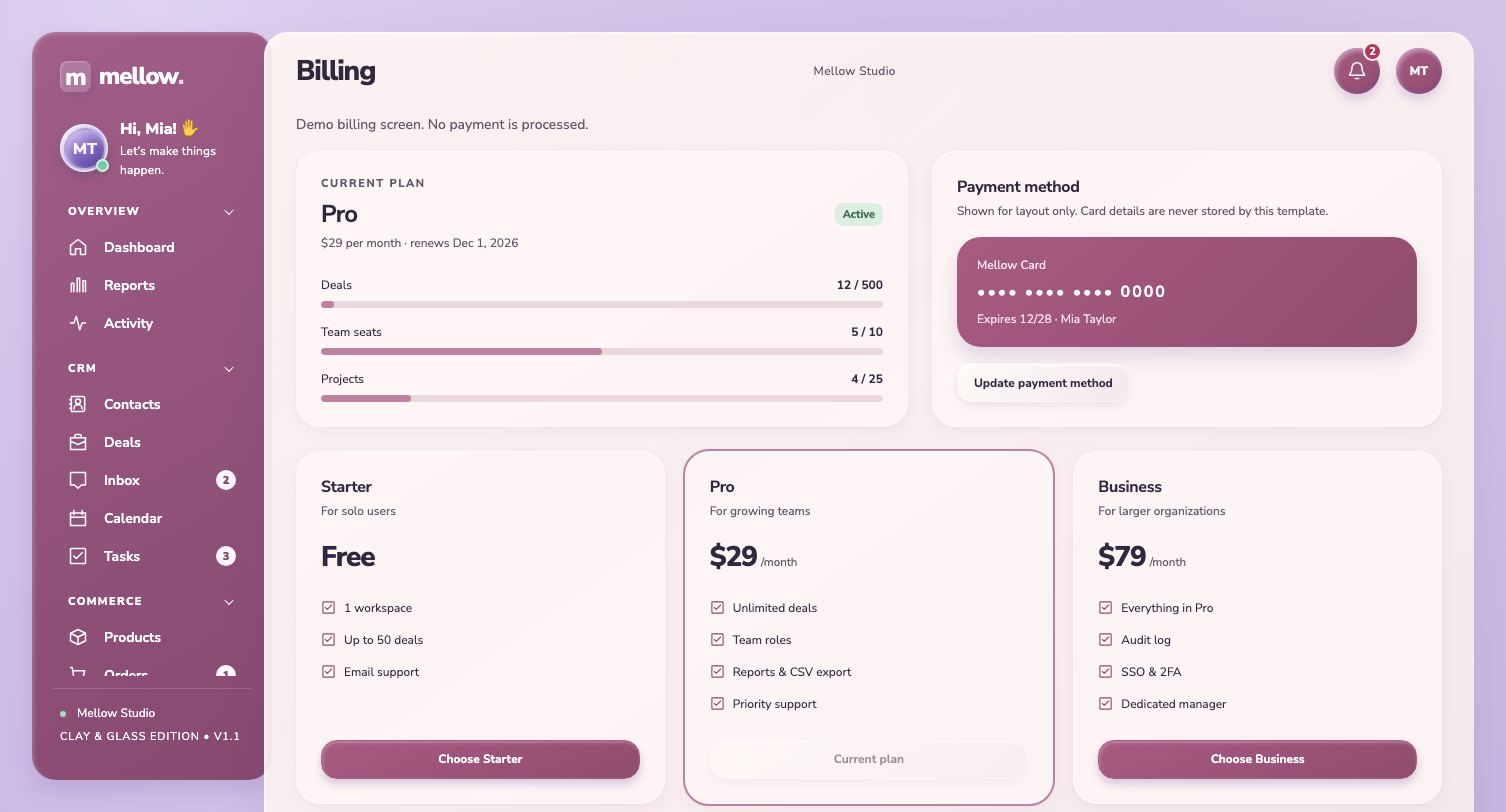
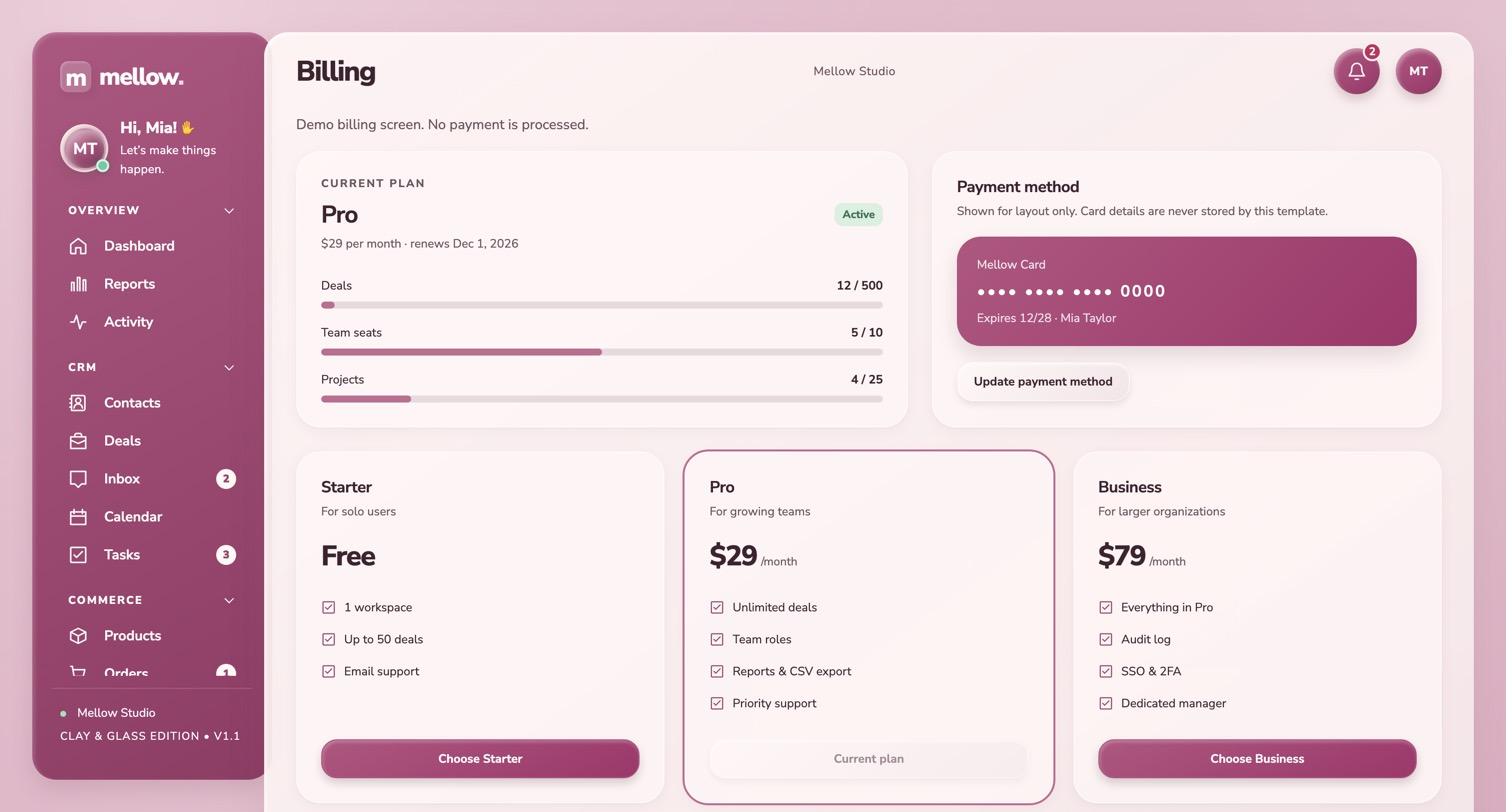
Perbarui README dan screenshot galeri
- Jelaskan palet aksen lengkap (terang dan gelap) dan animasi masuk
  "clay pop" di bagian Fitur dan Kenapa Mellow.
- Tambah baris kustomisasi untuk mengatur animasi masuk, dan perjelas
  perilaku prefers-reduced-motion.
- Ukuran bundle JS diperbarui menjadi ±81 KB gzip.
- Ambil ulang screenshot navy gelap, rose, dan sage dengan palet baru.
  Screenshot lama masih menampilkan sidebar dan latar ungu.

diff --git a/README.md b/README.md
@@ -14,10 +14,10 @@ Cukup ekstrak lalu buka `index.html`. Tidak perlu `npm install`, server, atau ko
 
 ## Kenapa Mellow?
 
-- **Tampil beda sejak layar pertama.** Bayangan neumorphic, sentuhan kaca, dan 4 aksen warna memberi identitas visual yang jarang ada di template admin.
+- **Tampil beda sejak layar pertama.** Bayangan neumorphic, sentuhan kaca, animasi masuk yang membal lembut, dan 4 palet aksen lengkap memberi identitas visual yang jarang ada di template admin.
 - **Langsung jalan, bahkan offline.** React, CSS, ikon, dan font Nunito Sans sudah dibundel lokal. Tanpa CDN, font eksternal, atau panggilan API.
 - **Ada versi satu file.** `Mellow-Admin-Standalone.html` (±370 KB) memuat seluruh aplikasi dalam satu berkas HTML. Praktis untuk demo ke klien atau lampiran presentasi.
-- **Ringan.** Bundle JavaScript, termasuk React, ±83 KB setelah gzip. CSS ±43 KB gzip, sudah termasuk font yang tertanam.
+- **Ringan.** Bundle JavaScript, termasuk React, ±81 KB setelah gzip. CSS ±43 KB gzip, sudah termasuk font yang tertanam.
 - **Kode yang mudah dibaca.** Hanya lima berkas sumber, React murni tanpa router, state library, atau framework CSS. Satu orang bisa memahami seluruh alurnya dalam satu sore.
 - **Siap disambungkan ke backend.** Semua perubahan data lewat beberapa fungsi pusat, jadi mengganti `localStorage` dengan API Laravel, Node, atau backend lain cukup di satu tempat.
 
@@ -65,11 +65,12 @@ Ditambah **7 layar mandiri** tanpa sidebar: Sign in, Sign up, Forgot password, L
 
 ### Tampilan dan tema
 
-- **4 aksen warna:** violet, rose, sage, dan navy.
+- **4 palet aksen:** violet, rose, sage, dan navy. Aksen mengubah seluruh nuansa, bukan hanya tombol dan sidebar: latar, permukaan kartu, teks, grafik, kartu statistik, avatar, bayangan, backdrop dialog, dan konfeti. Tiap aksen punya versi terang dan gelap.
+- **Animasi masuk *clay pop*.** Setiap kali halaman dibuka, konten muncul berurutan dari atas ke bawah. Kartu dan panel naik dengan pantulan kecil, ikon statistik memantul, baris tabel dan kartu deal bergeser masuk, batang grafik tumbuh, dan progress bar terisi. Semuanya selesai dalam kurang dari 2 detik. Sidebar dan bilah atas tetap diam. Record yang ditambahkan, dipindah, atau dikembalikan dengan *Undo* langsung muncul tanpa menunggu giliran.
 - **Mode gelap** dan **mode kartu ringkas**, masing-masing bisa dinyalakan dari Settings.
 - **Sidebar menempel** saat halaman digulir, dengan grup menu yang bisa dilipat.
 - **Responsif penuh.** Sidebar berubah menjadi ikon di tablet, dan di ponsel menjadi menu geser dengan dock navigasi di bawah. Kanban bisa digulir menyamping di layar kecil.
-- **Token desain berbasis CSS variable** untuk tipografi, spasi, radius, warna semantik, dan bayangan, sehingga mengganti warna merek cukup di satu tempat.
+- **Token desain berbasis CSS variable** untuk tipografi, spasi, radius, warna semantik, bayangan, dan kurva animasi, sehingga mengganti warna merek cukup di satu tempat.
 
 ### Aksesibilitas dan detail kecil
 
@@ -78,7 +79,7 @@ Ditambah **7 layar mandiri** tanpa sidebar: Sign in, Sign up, Forgot password, L
 - Menu aksi ••• bisa dipakai dengan keyboard (panah, Home, End, Escape).
 - Label `aria` pada tombol ikon, grafik, dan kontrol tahap.
 - Ada alternatif keyboard untuk drag-and-drop.
-- Menghormati `prefers-reduced-motion`.
+- Menghormati `prefers-reduced-motion`: bila pengguna memilih mengurangi gerakan di sistem operasinya, semua animasi dan transisi dimatikan.
 - Gaya cetak khusus untuk invoice.
 
 ---
@@ -115,7 +116,7 @@ src/
   pages.jsx        Halaman tambahan dan layar mandiri (login, error, maintenance)
   components.jsx   Komponen UI: Icon, Button, Menu, Modal, Field, StatCard, RevenueChart, ...
   data.js          Data contoh, paket harga, FAQ, dan format angka
-  styles.css       Token desain, tema, breakpoint, dan gaya cetak
+  styles.css       Token desain, tema, animasi, breakpoint, dan gaya cetak
 assets/            Hasil build (jangan diedit langsung)
 dist/              Paket siap unggah ke hosting
 build.mjs          Skrip build esbuild dan pembuat versi standalone
@@ -131,6 +132,7 @@ CHANGELOG.md       Riwayat perubahan per versi
 |---|---|
 | Mengganti warna merek | Ubah token di `:root` pada `src/styles.css`: warna merek (`--accent*`, `--primary-a/b`, `--sidebar-a/b`), latar (`--bg-*`), permukaan dan teks, `--shade`, grafik (`--bar*`), kartu statistik pertama (`--stat-1*`), dan avatar pertama (`--tone-0*`). Pastikan teks putih di tombol dan sidebar tetap berkontras minimal 4,5:1 |
 | Menambah aksen warna | Tambahkan nama aksen ke daftar swatch di halaman Settings (`App.jsx`) dan buat `.swatch.nama` di CSS. Lalu salin blok `[data-accent=rose]` dan `[data-theme=dark][data-accent=rose]` sebagai contoh, dan ganti semua nilainya |
+| Mengatur animasi masuk | Ubah durasi atau kurva pada aturan `enter-*` dan token `--ease-out`/`--ease-spring` di `src/styles.css`. Animasi hanya berlaku pada elemen yang tercantum di daftar selektornya, jadi jenis kartu atau baris baru perlu ditambahkan ke daftar itu agar ikut beranimasi |
 | Memakai Rupiah | Ubah helper `money` dan `short` di `src/data.js`, lalu sesuaikan nilai data contoh |
 | Menambah halaman | Tambahkan entri ke array `nav` (label, ikon, kelompok), lalu render komponennya di `App.jsx` |
 | Mengganti data contoh | Edit `seed` di `src/data.js`, build ulang, lalu klik **Settings → Reset demo data** |
